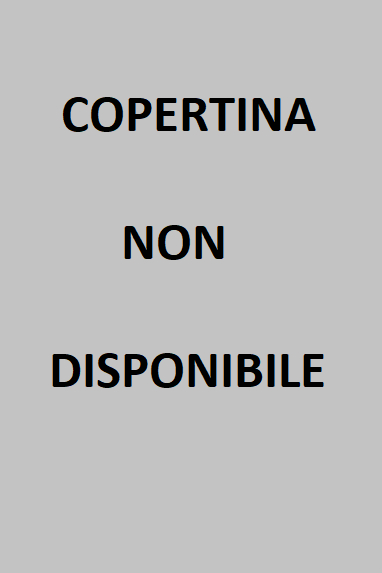
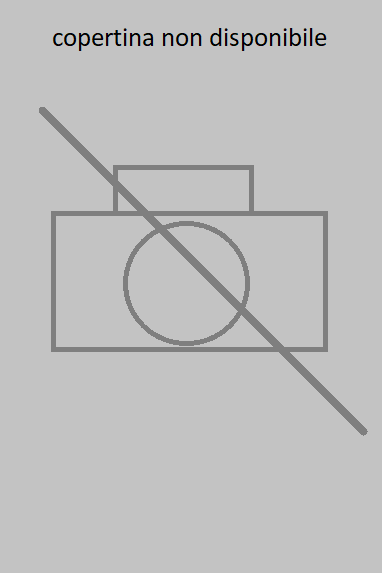
Milestone 4: aggiunta descrizioni

Changed region(s): [[0.0864, 0.1483, 0.9791, 0.7714], [0.1152, 0.0297, 0.8639, 0.089]]

diff --git a/main.js b/main.js
@@ -111,7 +111,7 @@ $(document).ready(function(){
 
       // abbino i contesti
       var context = {
-                      copertina: generaCopertina(copertina),
+                      copertina: generaCopertina(copertina, titolo),
                       titolo: titolo,
                       titoloOriginale: titoloOriginale,
                       descrizione: descrizione,
@@ -149,7 +149,7 @@ $(document).ready(function(){
   function generaBandiera(lingua){
     var bandiera = "";
 
-    var arrayLingue = ["it" , "en" , "sp"];
+    var arrayLingue = ["it" , "en" , "es"];
 
     for (var i = 0; i < arrayLingue.length; i++){
       if (arrayLingue.includes(lingua)){
@@ -163,14 +163,16 @@ $(document).ready(function(){
 
 
   // funzione per generare le copertine
-  function generaCopertina(poster){
+  function generaCopertina(poster, titolo){
 
     var immagineFinale = "";
 
     if (poster !== null){
       immagineFinale = "<img src='https://image.tmdb.org/t/p/w342" + poster + "'" + "alt='immagine non disponibile'>" ;
+      console.log(immagineFinale);
     } else {
-      immagineFinale = '<img src="img/nondisponibile.png" alt="">';
+    immagineFinale = '<h1 id="titolo">' + titolo + '</h1>' + ' ' + '<img src="img/nondisponibile.png" alt="" id ="no-poster">';
+    console.log(immagineFinale);
     } // fine ciclo if
     return immagineFinale;
   }// fine funzione generaCopertina

diff --git a/style.css b/style.css
@@ -89,6 +89,9 @@ body {
   animation: comparsa 0.5s linear;
   border-radius: 5px;
   position: relative;
+  display: flex;
+  align-items: center;
+  justify-content: center;
 }
 
 @keyframes comparsa {
@@ -96,9 +99,28 @@ body {
   100% {opacity: 100%; transform: translate3d(0, 0, 0);}
 }
 
+
+#copertina ,
 #copertina img {
   width: 100%;
   height: auto;
+}
+
+#no-poster {
+  position: absolute;
+  top: 0;
+  left: 0;
+  z-index: 0;
+  display: block;
+  filter: blur(1px);
+}
+
+#titolo {
+  z-index: 1;
+  color: white;
+  display: block;
+  text-align: center;
+  margin: 30px;
 }
 
 /* HOVER SUI POSTER */
@@ -129,6 +151,10 @@ body {
   opacity: 1;
 }
 
+.entry:hover #titolo {
+  display: none;
+}
+
 .lista .fa-star {
   color: #B4131D;
 }
@@ -141,14 +167,14 @@ body {
   display: block;
   font-size: 30px;
   font-weight: bold;
-  margin: 20px;
+  margin: 15px;
 }
 
 #descrizione {
-  padding: 25px;
+  padding: 20px;
   font-size: 20px;
   overflow:auto;
-  height: 40%;
+  height: 35%;
 }
 
 #lingua {
